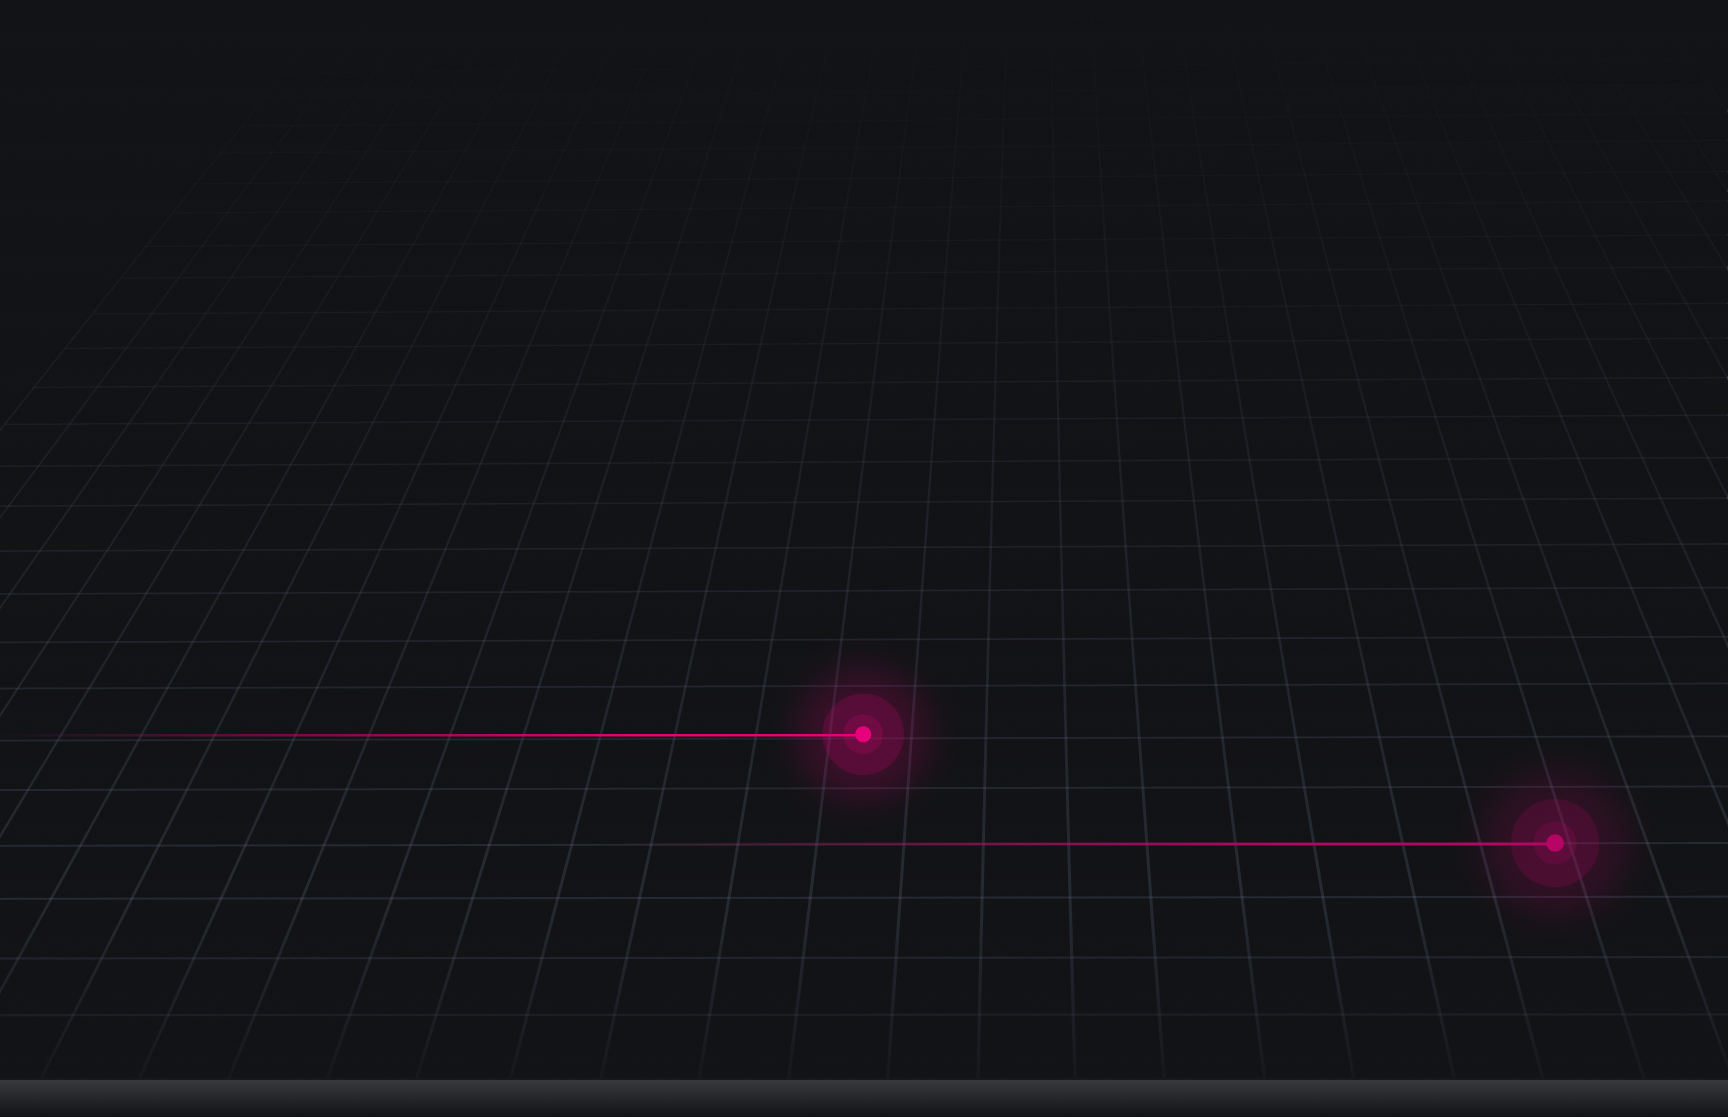
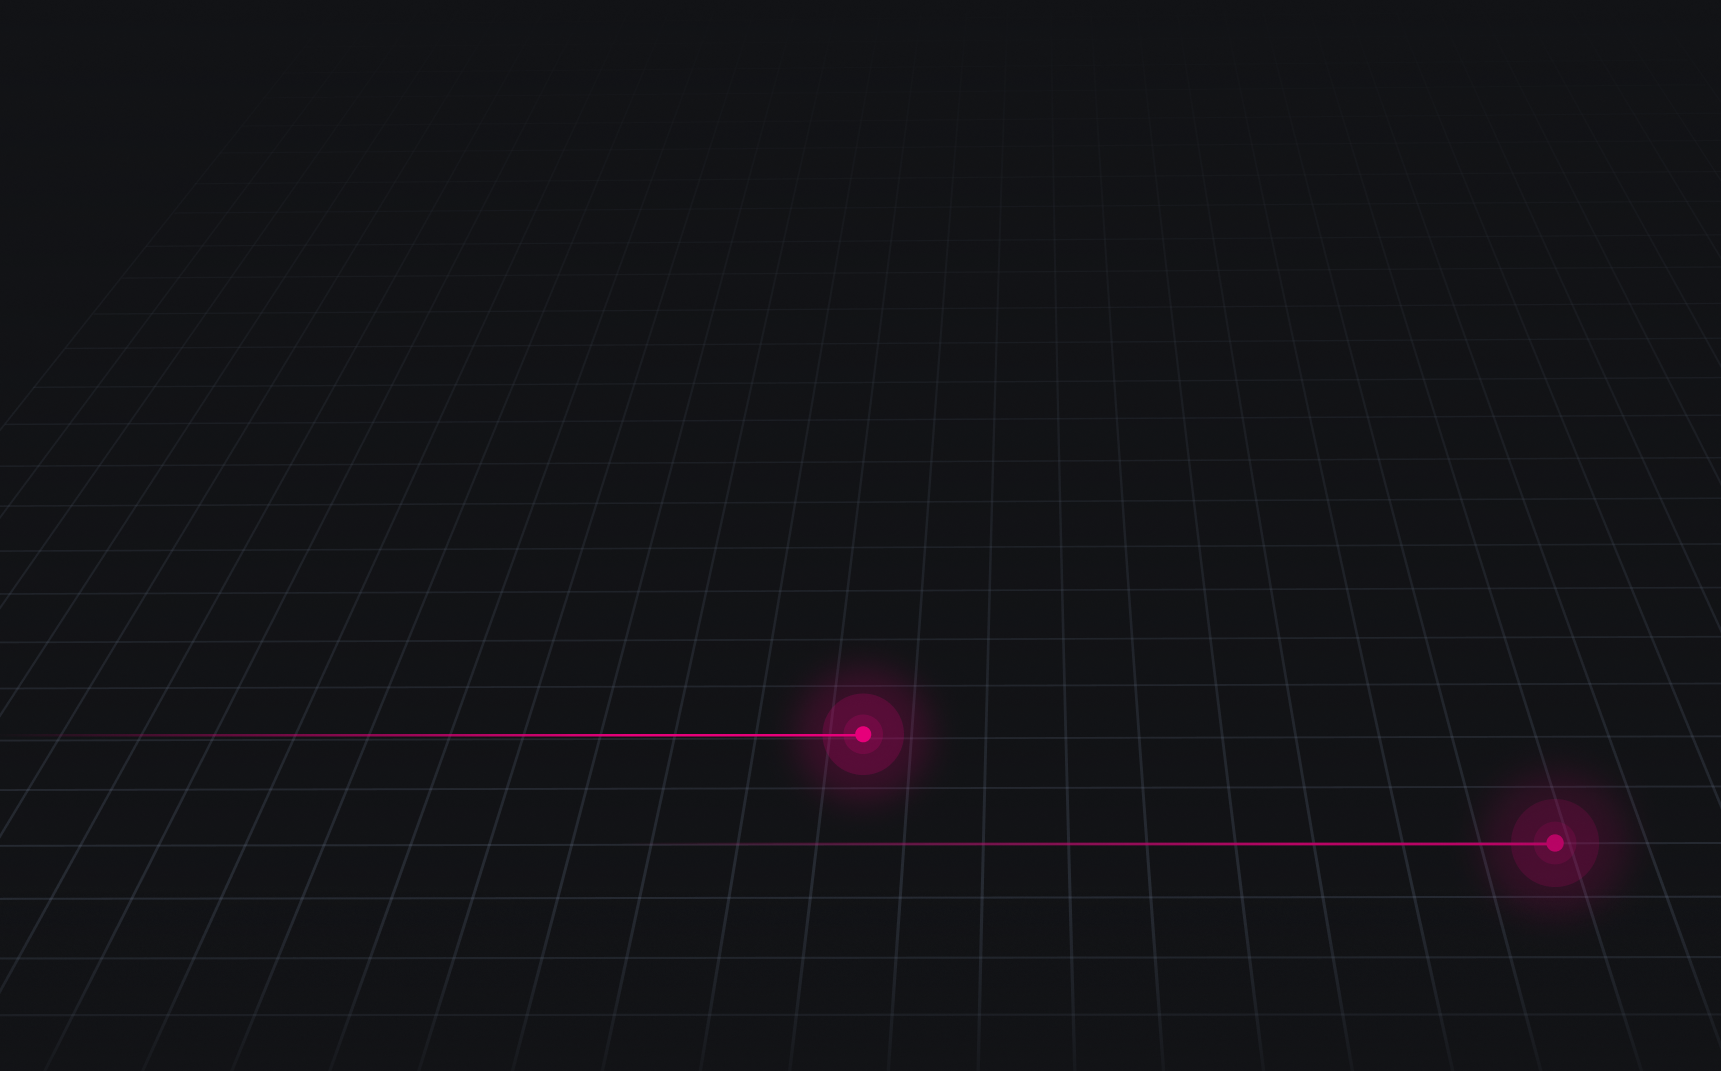
set bg properly

diff --git a/src/App.js b/src/App.js
@@ -2,7 +2,7 @@ import bg from "./bg.png";
 import styled, { createGlobalStyle } from "styled-components";
 import GlobalStyle from "./styles/GlobalStyle";
 const Wrapper = styled.section`
-  background: url(${bg}) no-repeat center center/cover;
+  background: url(${bg}) no-repeat center 100%/cover;
   height: 99.5vh;
   width: 100%;
   min-height: 600px;
